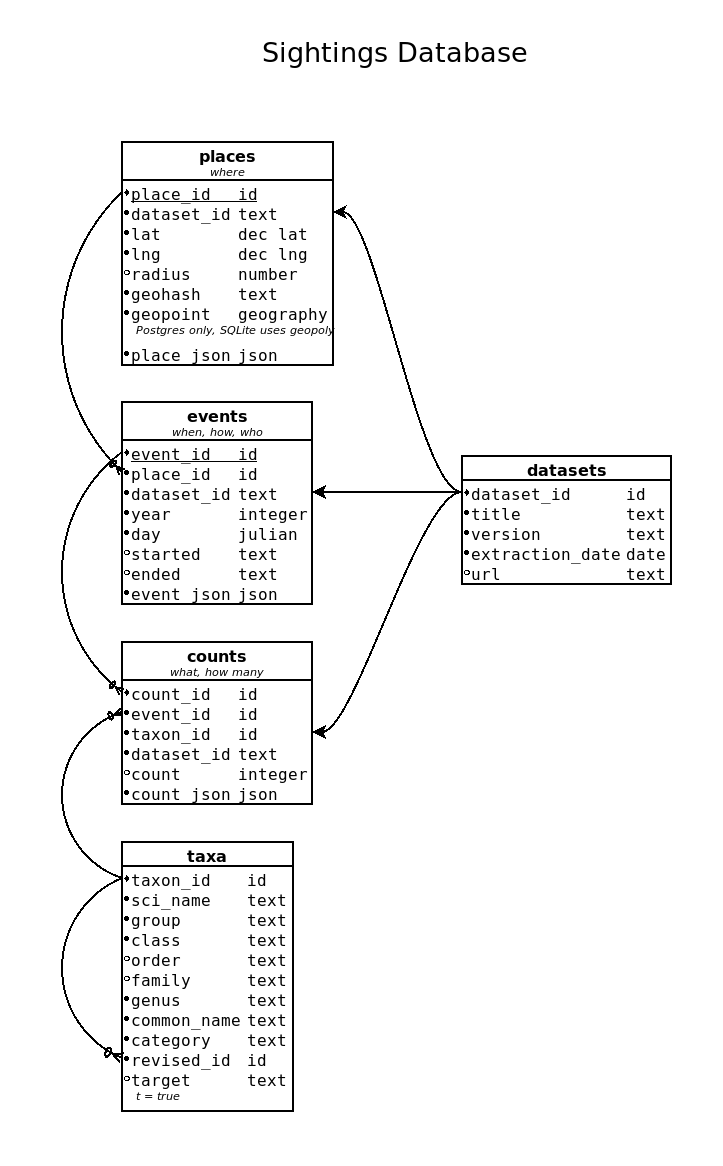
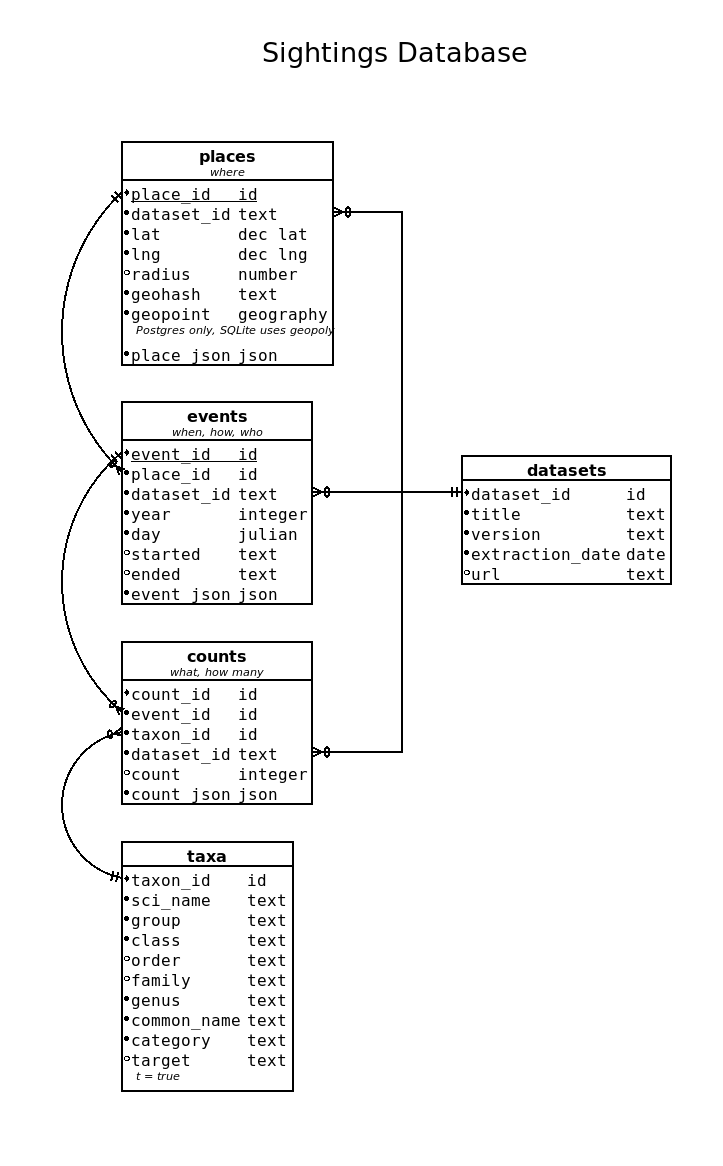
Update & expand schema information

diff --git a/README.md b/README.md
@@ -5,15 +5,33 @@ Causes, consequences, and cross-scale linkages of climate-driven phenological mi
 This repository contains scripts to help research and outreach efforts. There are other GitHub repositories for this project maintained by the various research labs.
 
 ## Database
-Currently, all data is stored in a single SQLite3 or PostgreSQL (PostGIS) database. We have gathered and consolidated the data from these sources:
+All data is stored in either a SQLite3 or PostgreSQL (PostGIS) database. We have gathered and consolidated the data from the sources below. Each source dataset records different things and therefore contains very different data. Our schema distills the common information needed for our study into a relational model and keeps the unique data, for further analysis, in NoSQL JSON blobs which are attached to each relational record.
 
 1. North American Breeding Bird Survey (BBS).
-1. MAPS: Monitoring Avian Productivity and Survivorship.
-1. eBird Basic Dataset. This dataset has been culled to take everything between 20⁰ and 90⁰ latitude and -95⁰ and -50⁰ longitude. We are also only taking "complete" and "approved" checklists. We are also only taking data for 117 migratory bird species.
+1. MAPS: Monitoring Avian Productivity and Survivorship (MAPS).
+1. eBird Basic Dataset. This dataset has been culled to take everything between 20⁰ and 90⁰ latitude and -95⁰ and -50⁰ longitude. We are also only taking "complete" and "approved" checklists. Additionally, we are also only taking data for ~120 migratory bird species.
 1. Pollard butterfly dataset.
 1. NABA butterfly dataset.
 1. Caterpillar Counts dataset.
 1. NestWatch dataset.
+
+There are 5 primary tables in the database:
+1. The Taxa table that hold data specific to each taxon.
+1. The Dataset table that hold information about where and when we extracted the data.
+1. The Place table contains where observations occur. Most datasets sample data repeatedly at designated locations. NoSQL place data is contained in the place_json field.
+1. The Event table holds when, how, and by whom data about the observation. NoSQL event data is in the event_json field.
+1. The Count table holds what was observed and how many birds or leps were observed during the event. count_json holds the NoSQL data.
+
+Some record counts for the datasets:
+
+Dataset   | Place Records | Event Records | Count Records | Notes
+--------- | ------------- | ------------- | ------------- | -----
+BBS       |        5,690  |       122,925 |     6,448,898 |
+MAPS      |        1,224  |       619,335 |     2,030,287 |
+NestWatch |       65,063  |      503,510  |       647,212 |
+Pollard   |          760  |        86,996 |        86,958 |
+NABA      |        1,132  |         2,135 |       305,810 |
+eBird     |    1,986,208  |    16,820,802 |   100,123,659 | Culled from 565,608,238 records
 
 #### Samples in R
 See this R [script](R/example_sql.R) for how to access the sqlite database in R.
